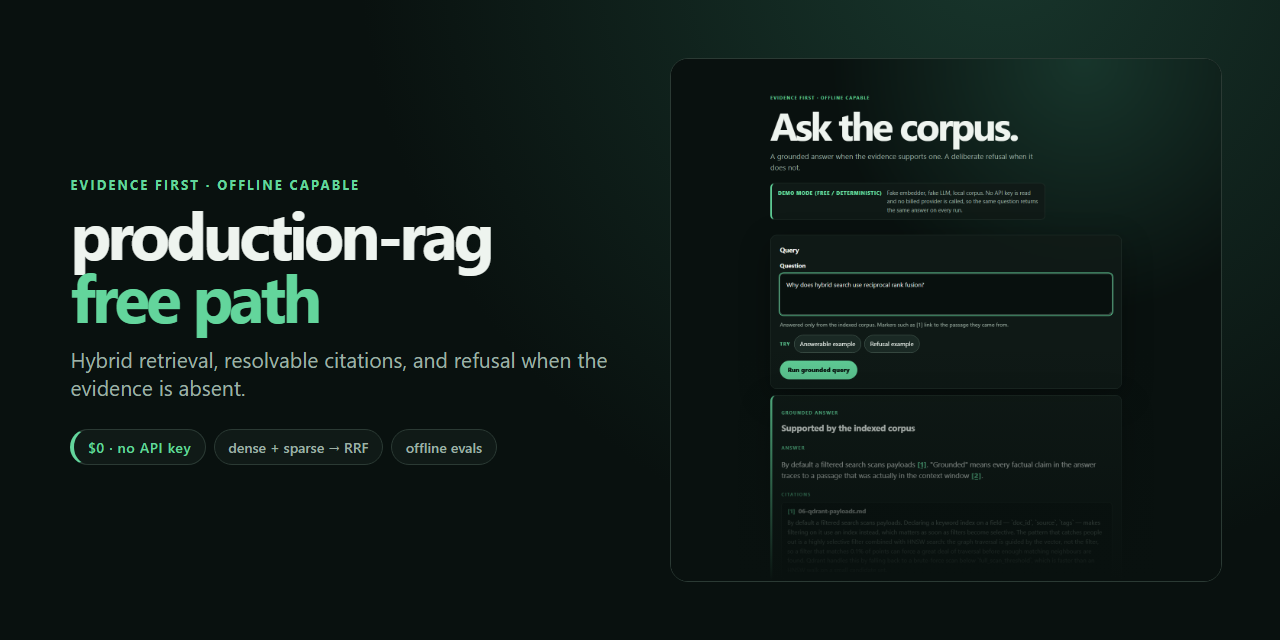
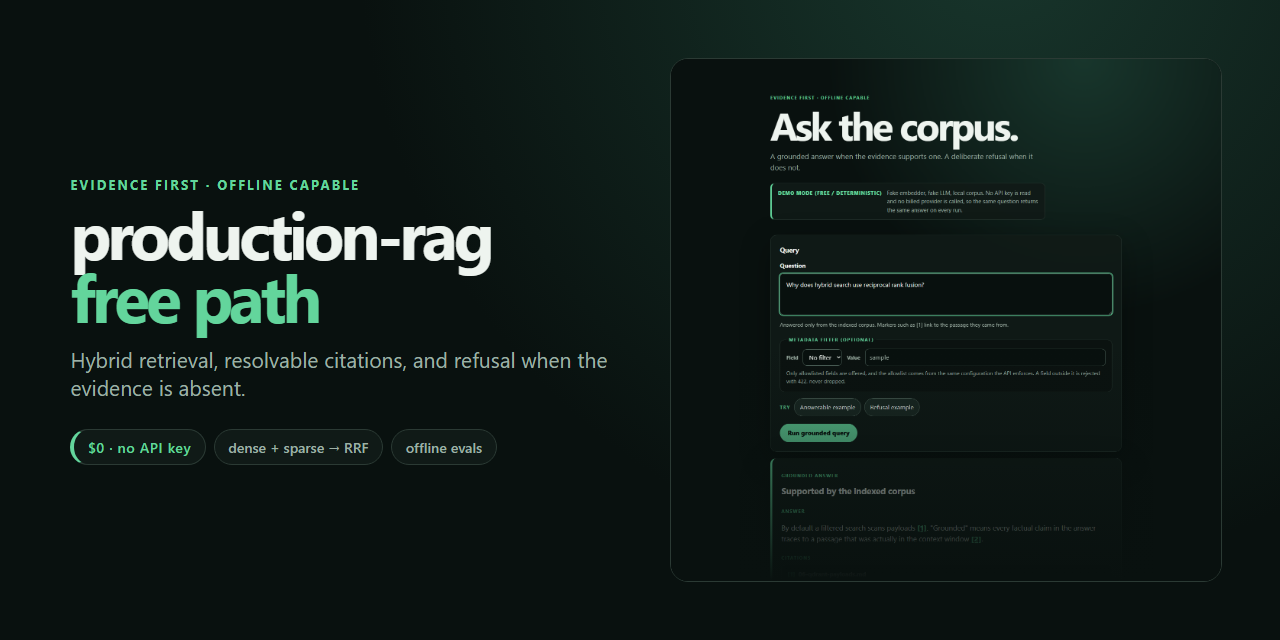
docs: capture the filter control in the committed UI evidence
The three still captures and the demo GIF documented a page that no longer
exists: they were recorded before the form grew a filter control. An asset that
shows the previous UI is worse than a missing one, because nobody checks a
picture they can see.

`capture_ui.py` gains a fourth outcome, `ui-filtered.png`, and `record_demo.py`
gains a filtered beat between the timings and the refusal — the recording still
ends on the refusal, which is the beat the demo notes ask for.

The captured narrowing is `tags` = `hybrid`, not `source` = `sample`. Ingesting
`data/raw/sample` makes that directory the corpus root, so every point carries
`source: root` and a `source` filter would narrow nothing; under `tags` =
`hybrid` every citation comes from `01-hybrid-search.md`, which is a filter a
reviewer can see working. The demo-day and ship notes use `title` = `Filtering`
for the same reason: their corpus is `data/corpus`, where `title` is what
separates one document from the rest — and it is also the one allowlisted field
with no payload index, so the scan warning is exercised in the demo rather than
only in a test.

diff --git a/scripts/capture_ui.py b/scripts/capture_ui.py
@@ -27,8 +27,19 @@ BASE_URL = "http://127.0.0.1:8000"
 COLLECTION = "production_rag_ui_capture"
 GROUNDED_QUESTION = "Why does hybrid search use reciprocal rank fusion?"
 REFUSAL_QUESTION = "Who won the Antarctic underwater chess championship?"
+FILTER_FIELD = "tags"
+FILTER_VALUE = "hybrid"
+"""The narrowing captured in ``ui-filtered.png``.
+
+Chosen against ``data/raw/sample`` rather than invented: every citation the
+grounded question returns under this filter comes from ``01-hybrid-search.md``,
+so the capture shows a filter that visibly did something. ``source`` is the
+wrong field for this corpus — ingesting ``data/raw/sample`` makes it the corpus
+root, so every point carries ``source: root`` and the filter would narrow
+nothing."""
 CAPTURES = {
     "grounded": ASSETS / "ui-grounded.png",
+    "filtered": ASSETS / "ui-filtered.png",
     "refused": ASSETS / "ui-refusal.png",
     "error": ASSETS / "ui-service-failure.png",
 }
@@ -50,12 +61,28 @@ def _wait_for_api(timeout: float = 120.0) -> None:
     raise RuntimeError(f"API did not become healthy within {timeout:.0f} seconds")
 
 
-def _submit(page: Page, question: str, outcome: str) -> None:
+def _submit(
+    page: Page,
+    question: str,
+    outcome: str,
+    *,
+    filter_field: str = "",
+    filter_value: str = "",
+) -> None:
     page.goto(BASE_URL, wait_until="networkidle")
     page.locator("#question").fill(question)
+    if filter_field:
+        # Set through the controls a reviewer uses, so the capture shows the
+        # filter that produced the answer rather than only its result.
+        page.locator("#filter-field").select_option(filter_field)
+        page.locator("#filter-value").fill(filter_value)
     page.evaluate(
-        """async question => {
-            const body = new URLSearchParams({question});
+        """async ({question, filterField, filterValue}) => {
+            const body = new URLSearchParams({
+                question,
+                filter_field: filterField,
+                filter_value: filterValue,
+            });
             const response = await fetch('/ui/query', {
                 method: 'POST',
                 headers: {'content-type': 'application/x-www-form-urlencoded'},
@@ -63,7 +90,7 @@ def _submit(page: Page, question: str, outcome: str) -> None:
             });
             document.querySelector('#result').innerHTML = await response.text();
         }""",
-        question,
+        {"question": question, "filterField": filter_field, "filterValue": filter_value},
     )
     page.locator(f'[data-outcome="{outcome}"]').wait_for(state="visible")
 
@@ -138,6 +165,15 @@ def capture(*, keep_stack: bool) -> None:
             _submit(page, GROUNDED_QUESTION, "grounded")
             page.locator(".diagnostics details").evaluate("details => details.open = true")
             _capture(page, "grounded")
+
+            _submit(
+                page,
+                GROUNDED_QUESTION,
+                "grounded",
+                filter_field=FILTER_FIELD,
+                filter_value=FILTER_VALUE,
+            )
+            _capture(page, "filtered")
 
             _submit(page, REFUSAL_QUESTION, "refused")
             if "score_threshold: 0.0" not in (ROOT / "configs/default.yaml").read_text():

diff --git a/scripts/record_demo.py b/scripts/record_demo.py
@@ -25,6 +25,8 @@ from typing import TYPE_CHECKING
 
 from capture_ui import (
     COLLECTION,
+    FILTER_FIELD,
+    FILTER_VALUE,
     GROUNDED_QUESTION,
     REFUSAL_QUESTION,
     _run,
@@ -49,16 +51,29 @@ STORYBOARD: tuple[tuple[str, float], ...] = (
     ("02-typing-grounded", 1.2),
     ("03-grounded", 3.6),
     ("04-grounded-timings", 3.0),
-    ("05-typing-refusal", 1.2),
-    ("06-refused", 3.8),
+    ("05-filter-set", 1.6),
+    ("06-filtered", 3.4),
+    ("07-typing-refusal", 1.2),
+    ("08-refused", 3.8),
 )
 
 
-def _submit(page: Page, question: str, outcome: str) -> None:
+def _submit(
+    page: Page,
+    question: str,
+    outcome: str,
+    *,
+    filter_field: str = "",
+    filter_value: str = "",
+) -> None:
     """Submit through the real form handler and wait for the typed outcome."""
     page.evaluate(
-        """async question => {
-            const body = new URLSearchParams({question});
+        """async ({question, filterField, filterValue}) => {
+            const body = new URLSearchParams({
+                question,
+                filter_field: filterField,
+                filter_value: filterValue,
+            });
             const response = await fetch('/ui/query', {
                 method: 'POST',
                 headers: {'content-type': 'application/x-www-form-urlencoded'},
@@ -66,7 +81,7 @@ def _submit(page: Page, question: str, outcome: str) -> None:
             });
             document.querySelector('#result').innerHTML = await response.text();
         }""",
-        question,
+        {"question": question, "filterField": filter_field, "filterValue": filter_value},
     )
     page.locator(f'[data-outcome="{outcome}"]').wait_for(state="visible")
 
@@ -116,15 +131,35 @@ def _record_frames(frames: Path) -> None:
         _focus(page, ".diagnostics")
         _shoot(page, frames, "04-grounded-timings")
 
+        # The same question again, narrowed. Shown before the refusal so the
+        # recording still ends on the refusal, which is the beat that carries.
         _focus(page, "#question")
+        page.locator("#filter-field").select_option(FILTER_FIELD)
+        page.locator("#filter-value").fill(FILTER_VALUE)
+        _shoot(page, frames, "05-filter-set")
+
+        _submit(
+            page,
+            GROUNDED_QUESTION,
+            "grounded",
+            filter_field=FILTER_FIELD,
+            filter_value=FILTER_VALUE,
+        )
+        _stabilize_dynamic_diagnostics(page)
+        _focus(page, "#result")
+        _shoot(page, frames, "06-filtered")
+
+        _focus(page, "#question")
+        page.locator("#filter-field").select_option("")
+        page.locator("#filter-value").fill("")
         question.fill(REFUSAL_QUESTION[: len(REFUSAL_QUESTION) // 2])
-        _shoot(page, frames, "05-typing-refusal")
+        _shoot(page, frames, "07-typing-refusal")
 
         question.fill(REFUSAL_QUESTION)
         _submit(page, REFUSAL_QUESTION, "refused")
         _stabilize_dynamic_diagnostics(page)
         _focus(page, "#result")
-        _shoot(page, frames, "06-refused")
+        _shoot(page, frames, "08-refused")
 
         browser.close()
 

diff --git a/docs/DEMO-DAY.md b/docs/DEMO-DAY.md
@@ -84,12 +84,13 @@ deterministic embedder, and serves the UI. Open <http://localhost:8000/>.
 
 1. **"Why does hybrid search use reciprocal rank fusion?"**
 2. **"Who won the Antarctic underwater chess championship?"**
-3. The first question again, with the **metadata filter** set to `source` = `sample`.
+3. **"How does filtering work in Qdrant?"** — twice. Once unfiltered, then again with the
+   **metadata filter** set to `title` = `Filtering`.
 
 The order carries the argument. A refusal shown first reads as a system that cannot
-answer; a refusal shown second reads as a system that chose not to. The third run is the
-same question under a narrowing, so the reviewer compares two answers rather than
-taking the filter on trust.
+answer; a refusal shown second reads as a system that chose not to. The third pair is one
+question asked twice, so the reviewer sees the narrowing change which documents the
+citations come from rather than taking the filter on trust.
 
 ### What the reviewer must see
 
@@ -101,11 +102,11 @@ taking the filter on trust.
   validate citations, guardrails.
 - On the second question: an explicit **refusal that states its reason**, with no
   invented supporting text.
-- On the third run: a **Filtered: source = sample** chip in the result footer, so the
-  answer names the narrowing it was produced under. The field list in the control is the
-  deployment's allowlist, read from configuration — pick nothing outside it, because there
-  is nothing outside it to pick. A field posted by hand is answered 422 with
-  `filter_not_allowed`, never dropped.
+- On the filtered run: every citation from `qdrant/search/filtering.md`, and a
+  **Filtered: title = Filtering** chip in the result footer — an answer that was narrowed
+  never reads as an answer over the whole corpus. The field list in the control is the
+  deployment's allowlist, read from configuration; there is nothing outside it to pick,
+  and a field posted by hand is answered 422 with `filter_not_allowed`, never dropped.
 
 ### Say this
 
@@ -120,6 +121,10 @@ lucky answer. When nothing survives, the guardrail refuses."
 - Do **not** cite the published scorecard as a quality result. It is an explicitly
   labelled local-provider fixture, and no hosted baseline has been run.
 - Do **not** promise auth or rate limiting here. That is P5's repository, on purpose.
+- Do **not** present the filter as access control. The allowlist bounds which *fields* a
+  query may filter on, never which documents a caller may see. `title` is also the one
+  allowlisted field with no payload index, so that filter is a scan — logged as
+  `filter_field_unindexed` rather than hidden as unexplained latency.
 
 ### If a reviewer asks for the failure mode
 

diff --git a/docs/demo.md b/docs/demo.md
@@ -95,9 +95,12 @@ fake embedder, and start the web server. They make no billed provider call.
    answer and its evidence together.
 2. Ask **“Why does hybrid search use reciprocal rank fusion?”** Show the grounded
    answer, citation links, source passages, and pipeline timings.
-3. Ask **“Who won the Antarctic underwater chess championship?”** Show the explicit refusal and
-   its reason.
-4. Stop recording after the refusal. The refusal reads as a deliberate product
+3. Set the **metadata filter** to `tags` = `hybrid` and ask the first question again. Show
+   that every citation now comes from `01-hybrid-search.md`, and that the footer names the
+   narrowing.
+4. Clear the filter and ask **“Who won the Antarctic underwater chess championship?”** Show
+   the explicit refusal and its reason.
+5. Stop recording after the refusal. The refusal reads as a deliberate product
    choice only after the grounded path has established that the system will
    answer confidently when it has evidence.
 
@@ -116,9 +119,17 @@ refusal states its reason instead of guessing; a dependency failure says so with
 leaking the underlying error. Per-node durations sit behind the collapsed
 **Pipeline timings** control.
 
+An optional **metadata filter** narrows the question to documents whose payload matches
+one allowlisted field. The fields offered are read from `retrieval.filters.allowed_fields`
+for the running deployment, so the control cannot offer something the API would reject; a
+field posted by hand anyway renders the same typed 422 the API answers with.
+`docs/assets/ui-filtered.png` is the sample corpus answered under `tags` = `hybrid`, with
+every citation from `01-hybrid-search.md` and the narrowing named in the result footer.
+
 ## Refresh the still captures
 
-`docs/assets/ui-grounded.png`, `ui-refusal.png` and `ui-service-failure.png` come
+`docs/assets/ui-grounded.png`, `ui-filtered.png`, `ui-refusal.png` and
+`ui-service-failure.png` come
 from `python scripts/capture_ui.py`, after `pip install -e ".[docs]"` and
 `playwright install chromium`. That script drives the same credential-free stack
 these setup scripts start — fake providers, local corpus, no key — so refreshing the

diff --git a/docs/SHIP.md b/docs/SHIP.md
@@ -25,10 +25,12 @@ Open <http://localhost:8000/> and ask two questions:
 - *Who won the Antarctic underwater chess championship?* — an explicit refusal with its
   reason, because the corpus does not support an answer.
 
-Then re-run the first question with the **metadata filter** control set to `source` =
-`sample`. The result footer names the narrowing it was answered under. The fields offered
-are the deployment's allowlist, read from the same configuration the API enforces; a field
-outside it is answered 422 with `filter_not_allowed` rather than quietly ignored.
+Then ask *How does filtering work in Qdrant?* twice — once as is, and once with the
+**metadata filter** control set to `title` = `Filtering`. The filtered run cites only
+`qdrant/search/filtering.md` and its footer names the narrowing it was answered under. The
+fields offered are the deployment's allowlist, read from the same configuration the API
+enforces; a field outside it is answered 422 with `filter_not_allowed` rather than quietly
+ignored.
 
 `docker compose down` stops the stack and keeps the vector volume. The rest of the
 credential-free path — ingest, the query API and CLI, both evaluation tiers, and regenerating
